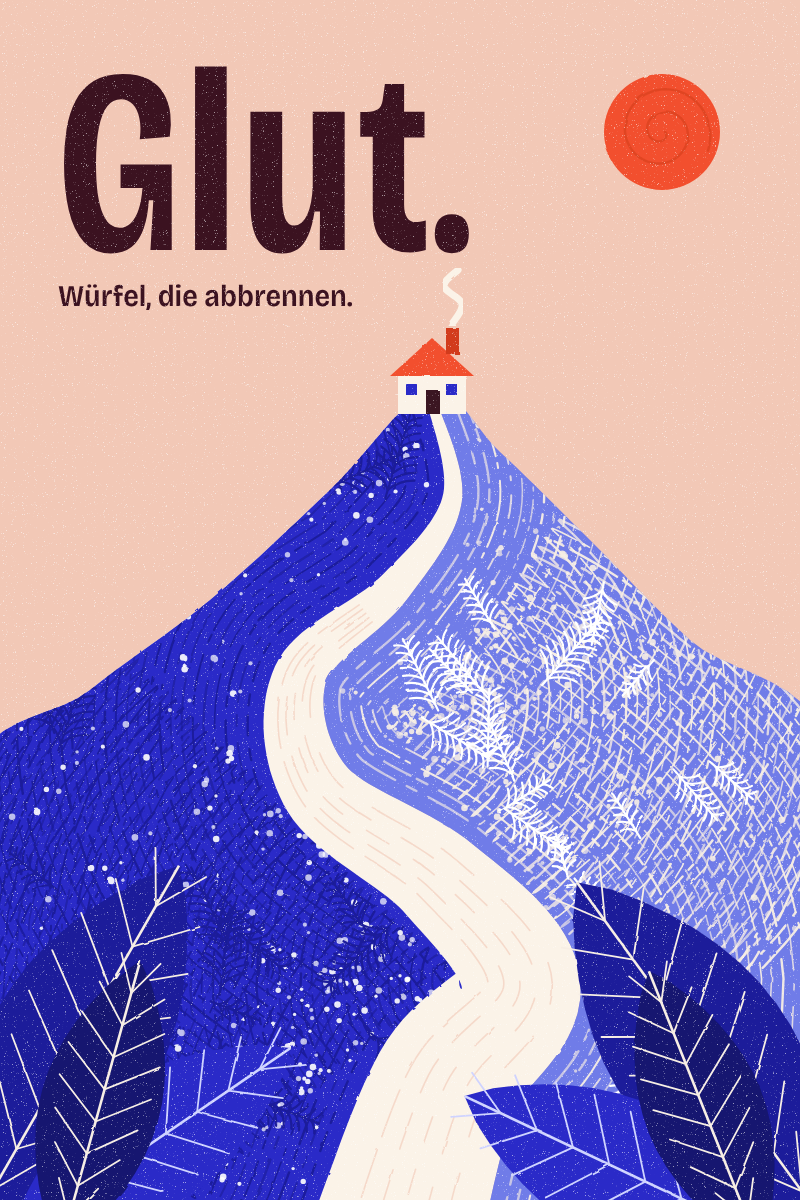
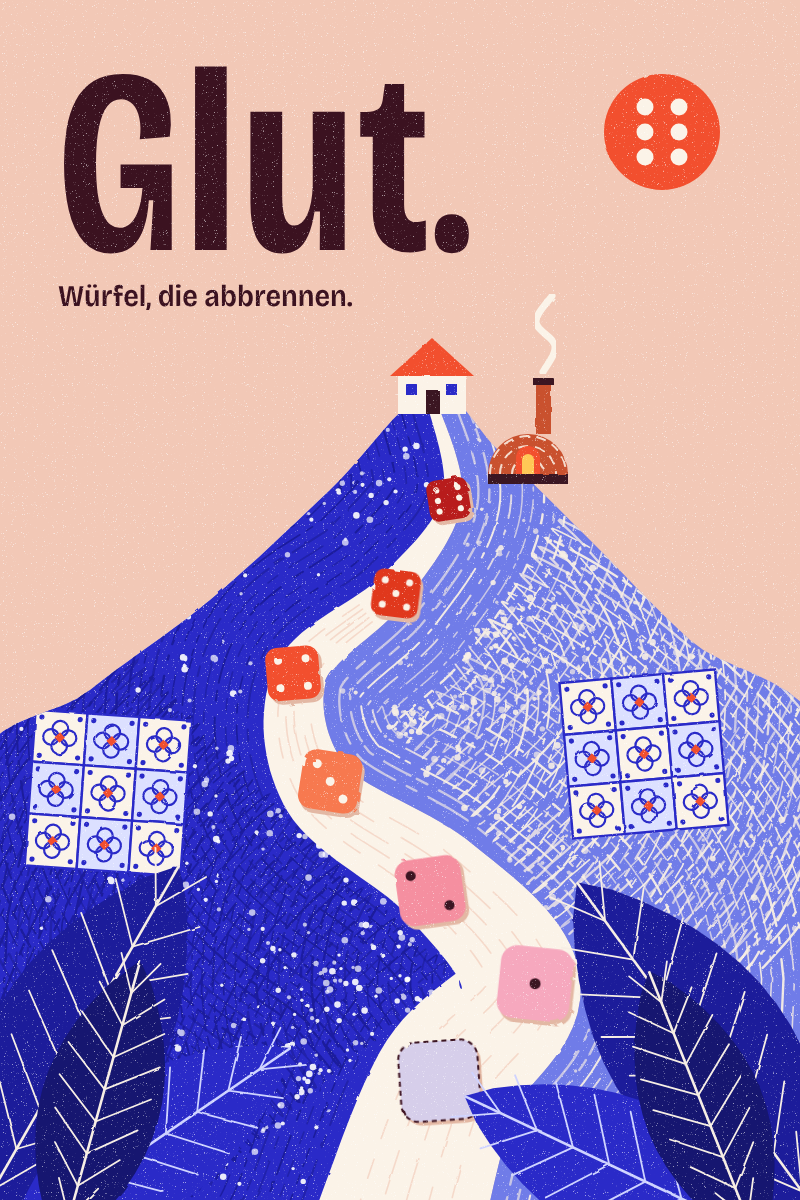
Glut: Thema Fayence-Manufaktur festgelegt, Cover erzählt das Spiel
Regeln und Vorschau mit Themenbegriffen (Tongrube, Brennofen, Töpferscheibe,
Fliese/Krug/Zierplatte, Gilden Töpfer/Händler/Brenner). Cover: Sonne als
6er-Würfel, Würfel kühlen auf dem Weg ab, Kachel-Intarsien, Brennofen.

Claude-Session: https://claude.ai/code/session_01FERet5otgfVKZQZ3wihCq4

diff --git a/glut/stil-vorschau.html b/glut/stil-vorschau.html
@@ -143,8 +143,8 @@ body{font-family:'Bricolage Grotesque',system-ui,sans-serif;color:var(--ink);pad
           <div class="die num cold">kalt</div>
         </div>
       </div>
-      <div class="plc mine"><span class="disp n">Schmelzofen</span><span class="pill p-ink">Hitze ≥ 4</span></div>
-      <div class="plc"><span class="disp n">Sandbank</span><span class="pill p-pink">beliebig</span></div>
+      <div class="plc mine"><span class="disp n">Brennofen</span><span class="pill p-ink">Hitze ≥ 4</span></div>
+      <div class="plc"><span class="disp n">Tongrube</span><span class="pill p-pink">beliebig</span></div>
       <div class="plc"><span class="disp n">Aschehütte</span><span class="pill p-lilac">Hitze ≤ 3</span></div>
       <div class="plc full"><span class="disp n">Kontor</span><span class="pill p-out">belegt</span></div>
     </div>
@@ -159,17 +159,17 @@ body{font-family:'Bricolage Grotesque',system-ui,sans-serif;color:var(--ink);pad
       <div class="disp h2" style="position:relative">Aufträge.</div>
       <div class="ord">
         <div class="glas"><span class="gl z num">9</span></div>
-        <div><div class="h3 disp">Zierglas</div><div class="body">Güte ab 8</div></div>
+        <div><div class="h3 disp">Zierplatte</div><div class="body">Güte ab 8</div></div>
         <span class="stamp num">6</span>
       </div>
       <div class="ord">
         <div class="glas"><span class="gl num">8</span><span class="gl z num">8</span></div>
-        <div><div class="h3 disp">Pokal + Zier</div><div class="body">je Güte 8</div></div>
+        <div><div class="h3 disp">Krug + Zierplatte</div><div class="body">je Güte 8</div></div>
         <span class="stamp num">11</span>
       </div>
       <div class="ord" style="background:var(--pine);color:var(--paper)">
         <div class="glas"><span class="gl s num">5</span><span class="gl s num">5</span></div>
-        <div><div class="h3 disp" style="color:var(--lime)">Zwei Schlicht</div><div class="body">+ 2 Dukaten</div></div>
+        <div><div class="h3 disp" style="color:var(--lime)">Zwei Fliesen</div><div class="body">+ 2 Dukaten</div></div>
         <span class="stamp num">4</span>
       </div>
       <div style="margin-top:auto;display:flex;gap:8px;position:relative">

diff --git a/glut/tools/cover.py b/glut/tools/cover.py
@@ -43,6 +43,21 @@ def offs(sign, extra=0):
 left_edge, right_edge = offs(-1), offs(+1)
 path_poly = left_edge + right_edge[::-1]
 
+
+def tile_patch(x0, y0, cols, rows, sz, rot):
+    g = [f'<g transform="rotate({rot} {x0+cols*sz/2:.1f} {y0+rows*sz/2:.1f})">']
+    for r in range(rows):
+        for c in range(cols):
+            x, y = x0 + c*sz, y0 + r*sz; cx, cy = x + sz/2, y + sz/2
+            g.append(f'<rect x="{x:.1f}" y="{y:.1f}" width="{sz}" height="{sz}" fill="{CREAM if (r+c)%2==0 else "#DCE0FF"}" stroke="{COB}" stroke-width="2.4"/>')
+            for dx, dy in ((-.17,0),(.17,0),(0,-.17),(0,.17)):
+                g.append(f'<circle cx="{cx+dx*sz:.1f}" cy="{cy+dy*sz:.1f}" r="{.15*sz:.1f}" fill="none" stroke="{COB}" stroke-width="2.2"/>')
+            g.append(f'<path d="M{cx:.1f} {cy-.1*sz:.1f} L{cx+.1*sz:.1f} {cy:.1f} L{cx:.1f} {cy+.1*sz:.1f} L{cx-.1*sz:.1f} {cy:.1f}Z" fill="{SUN}"/>')
+            for ddx, ddy in ((-.37,-.37),(.37,-.37),(-.37,.37),(.37,.37)):
+                g.append(f'<circle cx="{cx+ddx*sz:.1f}" cy="{cy+ddy*sz:.1f}" r="2.6" fill="{COB}"/>')
+    g.append('</g>')
+    return ''.join(g)
+
 o = []
 a = o.append
 a(f'<svg xmlns="http://www.w3.org/2000/svg" viewBox="0 0 {W} {H}" width="{W}" height="{H}">')
@@ -64,11 +79,9 @@ a(f'<rect width="{W}" height="{H}" fill="{GROUND}"/>')
 # ---- Sonne (oben rechts) ----
 a('<g filter="url(#cut)">')
 a(f'<circle cx="662" cy="132" r="58" fill="{SUN}"/>')
-sp = []
-for k in range(0, 260):
-    t = k / 20.0; r = 4 + t * 4.6
-    sp.append((662 + r*0.78*math.cos(t*1.0) , 132 + r*0.78*math.sin(t*1.0)))
-a(f'<path d="{d(sp)}" fill="none" stroke="{SUN_D}" stroke-width="2.4" stroke-linecap="round" opacity=".55"/>')
+for px in (-17, 17):
+    for py in (-25, 0, 25):
+        a(f'<circle cx="{662+px}" cy="{132+py}" r="8.5" fill="{CREAM}"/>')
 a('</g>')
 
 # ---- Berg: Flächen ----
@@ -107,12 +120,14 @@ for side in (-1, 1):
         px, py = x + side*dist*nx + R.uniform(-6, 6), y + side*dist*ny + R.uniform(-6, 6)
         a(f'<circle cx="{px:.1f}" cy="{py:.1f}" r="{R.choice([1.7,2.1,2.7,3.3]):.1f}" fill="{"#F7EEE4" if on_cob else "#FFF"}" opacity="{R.choice([.9,.7])}"/>')
     # Farne
-    for _ in range(26):
+    for _ in range(0):
         i = R.randrange(8, len(center)-2); (x, y) = center[i]; tx, ty, nx, ny = NR[i]
         dist = half_w(i) + R.uniform(36, 300)
         px, py = x + side*dist*nx, y + side*dist*ny
         ang = math.atan2(ty, tx) + R.uniform(-0.5, 0.5) + (math.pi if R.random() < .5 else 0)
         a(fern(px, py, ang, R.uniform(46, 96), '#FFFFFF' if on_cob else COB_D))
+a(tile_patch(566, 676, 3, 3, 52, -5))
+a(tile_patch(30, 715, 3, 3, 52, 4))
 a('</g>')
 
 # ---- Weg ----
@@ -123,16 +138,45 @@ for k in range(1, 6):
     pts = [(x + (2*f-1)*half_w(i)*0.8*nx, y + (2*f-1)*half_w(i)*0.8*ny) for i, ((x, y), (_, _, nx, ny)) in enumerate(zip(center, NR)) if i > 40]
     a(f'<path d="{d(pts)}" fill="none" stroke="{GROUND}" stroke-width="1.6" stroke-dasharray="{R.randint(20,50)} {R.randint(14,40)}" stroke-linecap="round" opacity=".6"/>')
 
+
+PIPS = {1:[(0,0)],2:[(-1,-1),(1,1)],3:[(-1,-1),(0,0),(1,1)],4:[(-1,-1),(1,-1),(-1,1),(1,1)],
+        5:[(-1,-1),(1,-1),(0,0),(-1,1),(1,1)],6:[(-1,-1),(1,-1),(-1,0),(1,0),(-1,1),(1,1)],0:[]}
+HEAT = {6:'#B81E1A',5:'#E0371F',4:'#F2502E',3:'#F7794F',2:'#F58FA0',1:'#F6A8BE',0:'#D6CEEA'}
+a('<g filter="url(#cut)">')
+for k, n in enumerate([6, 5, 4, 3, 2, 1, 0]):
+    f = 0.13 + k * 0.125
+    i = int(f * (len(center) - 1)); (x, y) = center[i]; _t1, _t2, nx, ny = NR[i]
+    sz = 36 + 50 * f ** 1.1; off = [0.35, -0.3, 0.28, -0.4, 0.3, -0.25, 0.1][k] * half_w(i)
+    px, py = x + off * nx, y + off * ny; rot = [-9, 7, -5, 9, -8, 6, -4][k]
+    a(f'<g transform="rotate({rot} {px:.1f} {py:.1f})">')
+    a(f'<rect x="{px-sz/2+3:.1f}" y="{py-sz/2+4:.1f}" width="{sz:.1f}" height="{sz:.1f}" rx="{sz*.22:.1f}" fill="#E3B8A4"/>')
+    st = f' stroke="{INK}" stroke-width="2" stroke-dasharray="5 4"' if n == 0 else ''
+    a(f'<rect x="{px-sz/2:.1f}" y="{py-sz/2:.1f}" width="{sz:.1f}" height="{sz:.1f}" rx="{sz*.22:.1f}" fill="{HEAT[n]}"{st}/>')
+    for (qx, qy) in PIPS[n]:
+        a(f'<circle cx="{px+qx*sz*.26:.1f}" cy="{py+qy*sz*.26:.1f}" r="{sz*.075:.1f}" fill="{CREAM if n >= 3 else INK}"/>')
+    a('</g>')
+a('</g>')
+
 # ---- Haus mit Schornstein ----
 hx, hy = 432, 404
 a(f'<rect x="{hx-34}" y="{hy-30}" width="68" height="40" fill="{CREAM}"/>')
 a(f'<path d="M{hx-42} {hy-28} L{hx} {hy-66} L{hx+42} {hy-28}Z" fill="{SUN}"/>')
-a(f'<rect x="{hx+14}" y="{hy-76}" width="13" height="26" fill="{SUN_D}"/>')
 a(f'<rect x="{hx-6}" y="{hy-14}" width="14" height="24" fill="{INK}"/>')
 a(f'<rect x="{hx-26}" y="{hy-20}" width="11" height="11" fill="{COB}"/><rect x="{hx+14}" y="{hy-20}" width="11" height="11" fill="{COB}"/>')
+# Brennofen (Kuppel mit glühender Öffnung und hohem Schornstein)
+kx, ky = 528, 474
+a(f'<rect x="{kx+8}" y="{ky-92}" width="15" height="52" fill="#C9512F"/>')
+a(f'<rect x="{kx+5}" y="{ky-96}" width="21" height="7" fill="{INK}"/>')
+TERRA = '#C9512F'
+a(f'<rect x="{kx-40}" y="{ky-2}" width="80" height="12" fill="{INK}"/>')
+a(f'<path d="M{kx-40} {ky} A40 40 0 0 1 {kx+40} {ky}Z" fill="{TERRA}"/>')
+for rr in (16, 28, 38):
+    a(f'<path d="M{kx-rr} {ky} A{rr} {rr} 0 0 1 {kx+rr} {ky}" fill="none" stroke="{CREAM}" stroke-width="2" stroke-dasharray="10 7" opacity=".85"/>')
+a(f'<path d="M{kx-12} {ky} L{kx-12} {ky-16} A12 12 0 0 1 {kx+12} {ky-16} L{kx+12} {ky}Z" fill="{SUN}"/>')
+a(f'<path d="M{kx-6} {ky} L{kx-6} {ky-14} A6 6 0 0 1 {kx+6} {ky-14} L{kx+6} {ky}Z" fill="#FFC857"/>')
 a('</g>')
 # Rauch
-sm = cr([(hx+20, hy-80),(hx+30, hy-100),(hx+12, hy-118),(hx+26, hy-134)], n=12)
+sm = cr([(kx+15, ky-102),(kx+27, ky-128),(kx+8, ky-152),(kx+24, ky-178)], n=12)
 a(f'<path d="{d(sm)}" fill="none" stroke="{CREAM}" stroke-width="7" stroke-linecap="round" filter="url(#cut)"/>')
 
 # ---- Vordergrund-Blätter ----

diff --git a/glut/REGELN.md b/glut/REGELN.md
@@ -1,6 +1,6 @@
 # GLUT – Regelentwurf v0.2
 
-Arbeitstitel, Thema offen (Murano-Glasbläser sind nur Platzhalter). Die Zahlen unten sind exakt die in
+**Thema: Fayence-Manufaktur** (Kobaltblau, Brennofen, Kacheln). Die Zahlen unten sind exakt die in
 `sim.mjs` getesteten Standardwerte. Regeländerungen immer erst mit dem Owner abstimmen und danach die
 Simulation neu laufen lassen.
 
@@ -10,8 +10,23 @@ sondern ein Vorrat an „Einsätzen“, den man über mehrere Züge plant.
 
 2–4 Spieler · ca. 60–75 Min. · Kenner
 
+## Thema und Begriffe
+Fayence-Manufaktur: Ton aus der Grube, Asche als Flussmittel, Holz fürs Feuer, geformte *Rohlinge* werden im Brennofen
+gebrannt, auf der Töpferscheibe zu Stücken geformt und am Kontor verkauft oder für Aufträge geliefert. Die Würfel sind die
+Glut des Ofens: Hitze 1–6, bei jedem Einsatz kühlt sie ab.
+
+| Spielfunktion (Simulation) | Name im Spiel |
+|---|---|
+| Sand / Soda / Glasmasse | Ton / Asche / Rohling |
+| Sandbank · Aschehütte · Wald · Schmelzofen | Tongrube · Aschehütte · Wald · Brennofen |
+| Blasplatz (S / P / Z) | Töpferscheibe (Fliese / Krug / Zierplatte) |
+| Kontor · Gildehaus | Kontor · Gildehaus |
+| Gilde B / H / M (Zeichen) | Töpfer (T) / Händler (H) / Brenner (B) |
+
+*In `sim.mjs` heißen die Gilden und Waren weiter B/H/M bzw. sand/soda/masse; die Tabelle übersetzt.*
+
 ## Material
-- Pro Spieler 4 Würfel (Hitze), Vorrat: Sand, Soda, Holz, Glasmasse, Dukaten, Glasstücke, Gildenzeichen (B/H/M), Ruhm.
+- Pro Spieler 4 Würfel (Hitze), Vorrat: Ton, Asche, Holz, Rohling, Dukaten, Stücke, Gildenzeichen (T/H/B), Ruhm.
 - 7 Orte, 12 Gildenkarten (4 offen), 12 Aufträge (3 offen).
 
 ## Spielablauf
@@ -26,13 +41,13 @@ Spielerzahl bestimmt Runden und Plätze je Ort:
 *Begründung (Simulation):* Runden müssen durch die Spielerzahl teilbar sein, sonst entsteht ein Sitzvorteil;
 zwei Plätze je Ort ab 3 Spielern geben jedem Spieler in allen Besetzungen rund 25 Arbeitszüge.
 
-**Start:** Jeder würfelt seine Würfel. Vorrat: 2 Sand, 1 Soda, 1 Holz, 3 Dukaten (bei 3 Spielern erhält der dritte Sitz 1 Dukat extra).
+**Start:** Jeder würfelt seine Würfel. Vorrat: 2 Ton, 1 Asche, 1 Holz, 3 Dukaten (bei 3 Spielern erhält der dritte Sitz 1 Dukat extra).
 
 **Runde:** Reihum genau eine Aktion pro Zug. Die Runde endet, wenn alle gepasst haben.
 **Wer zuerst passt, beginnt die nächste Runde** (in Runde 1 beginnt Sitz 1). Orte werden frei.
 
 ### Aktionen im Zug
-1. **Arbeiten** – 1 Würfel (oder 2 am Blasplatz) auf einen Ort mit freiem Platz legen (jeder Ort pro Spieler
+1. **Arbeiten** – 1 Würfel (oder 2 am Töpferscheibe) auf einen Ort mit freiem Platz legen (jeder Ort pro Spieler
    einmal je Runde), Wirkung ausführen, danach kühlt jeder eingesetzte Würfel um 1 ab (auf 0 = kalt).
    Kalte Würfel können nicht eingesetzt werden.
    - **Anfachen (vor dem Einsetzen):** 1 Holz zahlen = Hitze +1 für diesen Einsatz, maximal bis 6, höchstens +2.
@@ -46,18 +61,18 @@ tauscht Aktionen gegen den Rundenstart.)
 
 | Ort | Bedingung | Wirkung |
 |---|---|---|
-| Sandbank | beliebig | Sand: h=1…6 → 1/2/3/3/4/5 |
-| Aschehütte | h ≤ 3 | +2 Soda |
+| Tongrube | beliebig | Ton: h=1…6 → 1/2/3/3/4/5 |
+| Aschehütte | h ≤ 3 | +2 Asche |
 | Wald | beliebig | Holz = ⌈h/3⌉ (1–2) |
-| Schmelzofen | h ≥ 4 | wandelt bis zu (h−3) Sätze **2 Sand + 1 Soda → 1 Glasmasse**; +1 Meister-Zeichen |
-| Blasplatz | siehe unten | Glasstück herstellen; Bläser-Zeichen |
+| Brennofen | h ≥ 4 | wandelt bis zu (h−3) Sätze **2 Ton + 1 Asche → 1 Rohling**; +1 Brenner-Zeichen |
+| Töpferscheibe | siehe unten | Stück herstellen; Töpfer-Zeichen |
 | Kontor | h ≥ 2 | **Verkaufen** (bis ⌈h/2⌉ Stücke, +1 Händler-Zeichen) **oder Auftrag liefern** (+2 Händler-Zeichen) |
 | Gildehaus | h ≥ Stufe der Karte | Gildenkarte kaufen (Dukaten), +2 Zeichen ihrer Gilde |
 
-**Blasplatz:**
-- *Schlicht* (S): 1 Würfel, 1 Glasmasse → Güte = h. Bläser +1.
-- *Pokal* (P): 2 Würfel mit **gleicher** Hitze, 2 Glasmasse + 1 Holz → Güte = Summe. Bläser +2.
-- *Zierglas* (Z): 2 Würfel mit **aufeinanderfolgender** Hitze (z. B. 3 und 4), 2 Glasmasse + 1 Holz → Güte = Summe. Bläser +2.
+**Töpferscheibe:**
+- *Fliese* (S): 1 Würfel, 1 Rohling → Güte = h. Töpfer +1.
+- *Krug* (P): 2 Würfel mit **gleicher** Hitze, 2 Rohlinge + 1 Holz → Güte = Summe. Töpfer +2.
+- *Zierplatte* (Z): 2 Würfel mit **aufeinanderfolgender** Hitze (z. B. 3 und 4), 2 Rohlinge + 1 Holz → Güte = Summe. Töpfer +2.
 
 **Verkaufspreise:** S 3, P 8, Z 8 Dukaten (Basis 2/5/5 × 1,5, gerundet).
 
@@ -67,35 +82,35 @@ neuer Auftrag wird aufgedeckt. Beispiele (Güte-Anforderungen sind im Test um 3 
 
 | Anforderung | Ruhm (×1,3 gerundet) |
 |---|---|
-| 1 Pokal | 5–7 |
-| 1 Zierglas | 6–8 |
-| 2 Schlicht + Dukaten | 4 (+2 Dukaten) |
-| Pokal + Zierglas | 11 |
-| 2 Pokale / 2 Zierglas | 9 |
+| 1 Krug | 5–7 |
+| 1 Zierplatte | 6–8 |
+| 2 Fliesen + Dukaten | 4 (+2 Dukaten) |
+| Krug + Zierplatte | 11 |
+| 2 Krüge / 2 Zierplatten | 9 |
 
 ## Gilden
-Zeichen B (Bläser), H (Händler), M (Meister) sammeln sich durch die Aktionen oben und durch Gildenkarten.
+Zeichen T (Töpfer), H (Händler), B (Brenner) sammeln sich durch die Aktionen oben und durch Gildenkarten.
 Nach den Wertungsrunden: **1. Platz 4 Ruhm, 2. Platz 2 Ruhm** (zu zweit nur der 1. Platz); Gleichstand teilt (abgerundet).
 
 ## Gildenkarten (Stufe, Preis, Ruhm am Ende, Wirkung)
 | Karte | Gilde | Stufe | Preis | Ruhm | Wirkung |
 |---|---|---|---|---|---|
-| Wächter | M | 3 | 7 | 2 | Dein erster Einsatz je Runde kühlt nicht ab |
-| Lehrling | M | 3 | 6 | 1 | +1 Würfel (kalt) |
-| Ofenmeister | M | 2 | 5 | 2 | Schmelzofen ab Hitze 3 |
+| Wächter | B | 3 | 7 | 2 | Dein erster Einsatz je Runde kühlt nicht ab |
+| Lehrling | B | 3 | 6 | 1 | +1 Würfel (kalt) |
+| Ofenmeister | B | 2 | 5 | 2 | Brennofen ab Hitze 3 |
 | Händler | H | 2 | 5 | 2 | +1 Dukat je verkauftem Stück |
 | Zunft | H | 2 | 5 | 3 | – |
 | Kontorist | H | 3 | 7 | 3 | Kontor: +1 verkauftes Stück |
-| Sandkarre | B | 1 | 3 | 1 | Sandbank +1 |
-| Holzrecht | B | 1 | 3 | 1 | Wald +1 |
-| Glasmeister | B | 2 | 5 | 2 | Glasstücke +1 Güte |
-| Lehrbrief | B | 1 | 2 | 2 | – |
-| Sparglut | M | 3 | 6 | 2 | Erstes Anfachen je Runde gratis |
-| Aschebrenner | M | 1 | 3 | 1 | Aschehütte +1 Soda |
+| Tonkarre | T | 1 | 3 | 1 | Tongrube +1 |
+| Holzrecht | T | 1 | 3 | 1 | Wald +1 |
+| Malermeister | T | 2 | 5 | 2 | Stücke +1 Güte |
+| Lehrbrief | T | 1 | 2 | 2 | – |
+| Sparglut | B | 3 | 6 | 2 | Erstes Anfachen je Runde gratis |
+| Aschebrenner | B | 1 | 3 | 1 | Aschehütte +1 Asche |
 
 ## Spielende und Wertung
 Nach der letzten Runde (zweite Gilden-Wertung zuerst) zählen: Ruhm aus Aufträgen und Gilden, Ruhm der Gildenkarten,
-**1 Ruhm je unverkauftem Glasstück**, **1 Ruhm je 4 Dukaten**. Meiste Ruhm gewinnt, Gleichstand: mehr Dukaten.
+**1 Ruhm je unverkauftem Stück**, **1 Ruhm je 4 Dukaten**. Meiste Ruhm gewinnt, Gleichstand: mehr Dukaten.
 
 ---
 
@@ -105,7 +120,7 @@ Nach der letzten Runde (zweite Gilden-Wertung zuerst) zählen: Ruhm aus Aufträg
 |---|---|
 | Sitzbalance Greedy 2p / 3p / 4p | 50/50 % · 34/33/33 % · 27/24/28/22 % |
 | Sitzbalance Planer 2p / 3p / 4p | 52/48 % · 36/31/33 % (mit +1 Dukat für Sitz 3, vorher 40/29/31 %) · 28/26/22/24 % |
-| Strategien 4p Greedy (Bläser/Händler/Meister/ausgewogen) | 20 / 25 / 30 / 25 % Siege |
+| Strategien 4p Greedy (Töpfer/Händler/Brenner/ausgewogen) | 20 / 25 / 30 / 25 % Siege |
 | Strategien 4p Planer | 27 / 21 / 28 / 26 % – keine dominante Strategie |
 | Wie viel zählt Können? | Planer schlägt Greedy zu 77 %; Greedy schlägt Zufall zu 78 % und den kurzsichtigen Bot zu 66 % |
 | Ruhm-Quellen 4p (Mittel 18) | Gilden 9, Karten 4, Aufträge 4, Reste 1 (Planer: Aufträge ≈ 7) |
@@ -117,7 +132,7 @@ Nach der letzten Runde (zweite Gilden-Wertung zuerst) zählen: Ruhm aus Aufträg
 1. **Planer-Bots erfüllen Aufträge deutlich öfter (≈1 vs. 0,7 je Partie, Ruhm 7 vs. 4)** – Aufträge sind also für starke
    Spieler wertvoll und nicht tot; Greedy-Bots unterschätzen sie.
 2. **Gilden liefern etwa 50 % des Ruhms:** noch dominant. Kandidaten: Mindestzahl Zeichen, oder Aufträge weiter aufwerten.
-3. **Händler:** je nach Botstärke schwankt er zwischen 21 und 25 %, Bläser zwischen 20 und 27 % – Streuung innerhalb von ±2σ
+3. **Händler:** je nach Botstärke schwankt er zwischen 21 und 25 %, Töpfer zwischen 20 und 27 % – Streuung innerhalb von ±2σ
    bei 400–1000 Partien, daher noch keine Änderung.
 4. **Rasten-Taktik (früh passen):** die Bots bewerten den Vorteil „beginnt die nächste Runde“ nicht, nur das Neuwürfeln.
    Menschen werden die Regel anders nutzen; im Spieltest prüfen, ob Passen zu früh/zu spät lohnt.

diff --git a/glut/STIL.md b/glut/STIL.md
@@ -69,7 +69,7 @@ Keine zweite Schrift, keine Handschrift, keine Serife. Großschreibung normal (k
 - **Dichte Muster in Flächen:** Streifen, Punkte und Blätter wie im Berg-Poster, nur in 2–3 Tönen derselben Farbe.
 - **Palette je Bild begrenzt:** Pfirsich + Kobalt + Koralle (+ Pink/Olive), nicht alles zugleich.
 
-## Cover (v0.2 – ersetzt die erste, zu „kindliche" Fassung)
+## Cover (v0.3 – erzählt jetzt das Spielthema)
 Datei `cover.png` (800×1200, 2:3), erzeugt aus `tools/cover.py` (SVG) und `tools/render-cover.mjs` (PNG mit Bricolage).
 Warum die erste Fassung kindlich wirkte: runde Klumpen-Hügel, dicke Strahlen, winziges Haus, Rauschen über allem.
 Was die Referenzen dagegen tun und das Cover jetzt nachbaut:
@@ -77,13 +77,14 @@ Was die Referenzen dagegen tun und das Cover jetzt nachbaut:
 - **Textur trägt die Fläche:** Konturlinien parallel zum Weg (gestrichelt wie Handschnitt), Punktgruppen, Farne – links Weiß auf Kobalt,
   rechts Dunkelkobalt auf Hellkobalt. Das ist Handwerk, nicht Körnung.
 - **Streng begrenzte Palette:** Pfirsich, drei Blautöne, Sonnen-Koralle, Creme, Weinbraun. Sonne klein und mit Spirale (wie im Berg-Poster).
-- **Schornstein mit Rauchfaden** auf dem Haus: leise Anspielung auf Hitze und Ofen, passt zu jedem Thema.
+- **Inhalt statt Stimmung (v0.3):** Die Sonne ist ein **Würfel mit 6 Augen** (Hitze). Entlang des Weges liegen sieben Würfel, die von **6 (dunkles Rot)
+  bis kalt (Lila, gestrichelt)** abkühlen – das Spielprinzip als Bild. **Kachel-Intarsien** (Azulejo-Quatrefoils in Kobalt/Creme) liegen in den
+  Berg eingelegt (Fayence). Neben dem Haus steht ein **Brennofen** (Terrakotta-Kuppel mit glühender Öffnung) mit Schornstein und Rauchfaden.
 - **Wortmarke** „Glut." in Bricolage Breite 75, Weinbraun, mit Zeile „Würfel, die abbrennen." – Platzhalter, bis das Thema steht.
 - Körnung nur als feine, seltene Sprenkel über allem (Papier), kein Rauschen.
 Für Handys (9:19,5) wird das Cover unten verankert und oben mit Pfirsich aufgefüllt; ein Hochformat-Zuschnitt lässt sich aus dem Skript erzeugen.
 
 ## Offene Entscheidungen
-1. **Thema:** Der Stil passt zu „Sonne/Hitze". Naheliegend ist eine **Fayence-/Keramik-Manufaktur** (Kobalt ist *das*
-   Glasurpigment, Brennofen = Hitze) – oder Murano, Salzgärten. Ersetzt die Platzhalter (Sand, Soda, Glasmasse …).
+1. ~~Thema~~ **entschieden: Fayence-Manufaktur** (Kobalt = Glasurpigment, Brennofen = Hitze). Begriffe siehe `REGELN.md`.
 2. **Tintenfallen-Optik der Referenzschrift:** Bricolage ist ein guter, freier Ersatz; ein Kauf der echten Schrift wäre möglich.
 3. **Hell/Dunkel:** Vorschlag nur hell (wie die anderen Spiele); Dunkelgrün-Seiten sind Akzent, kein Dunkelmodus.
